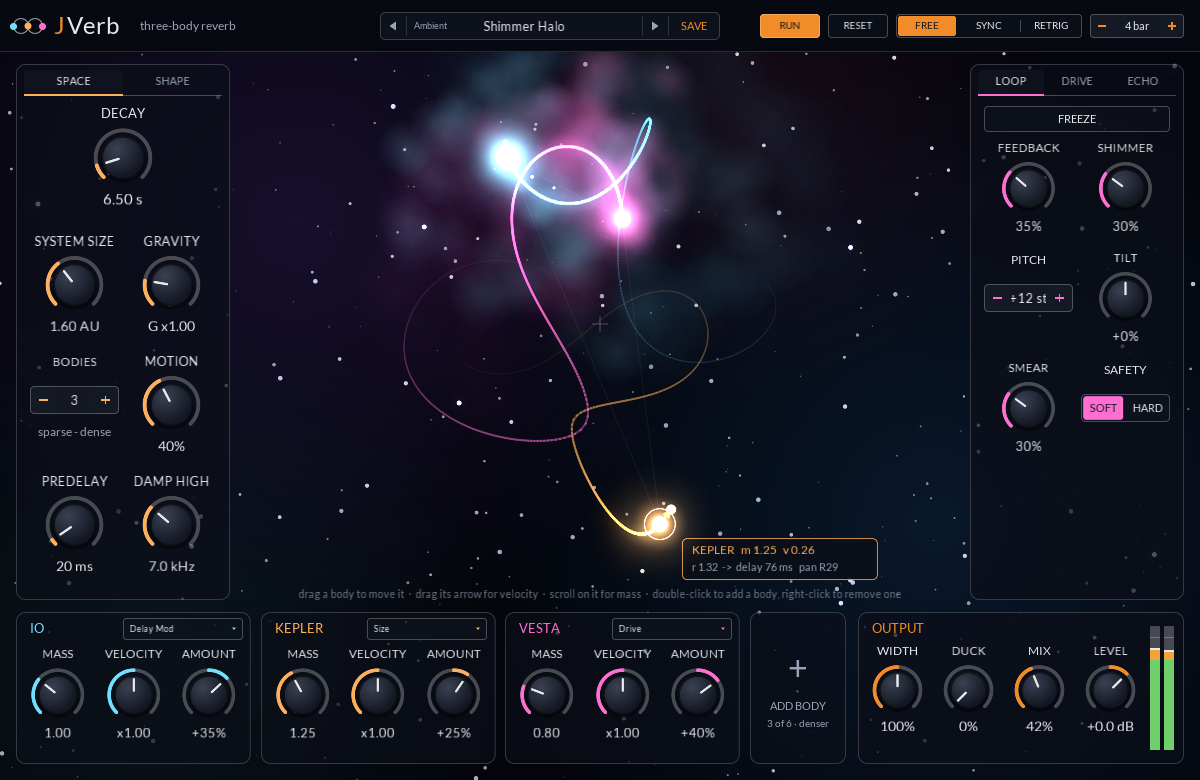
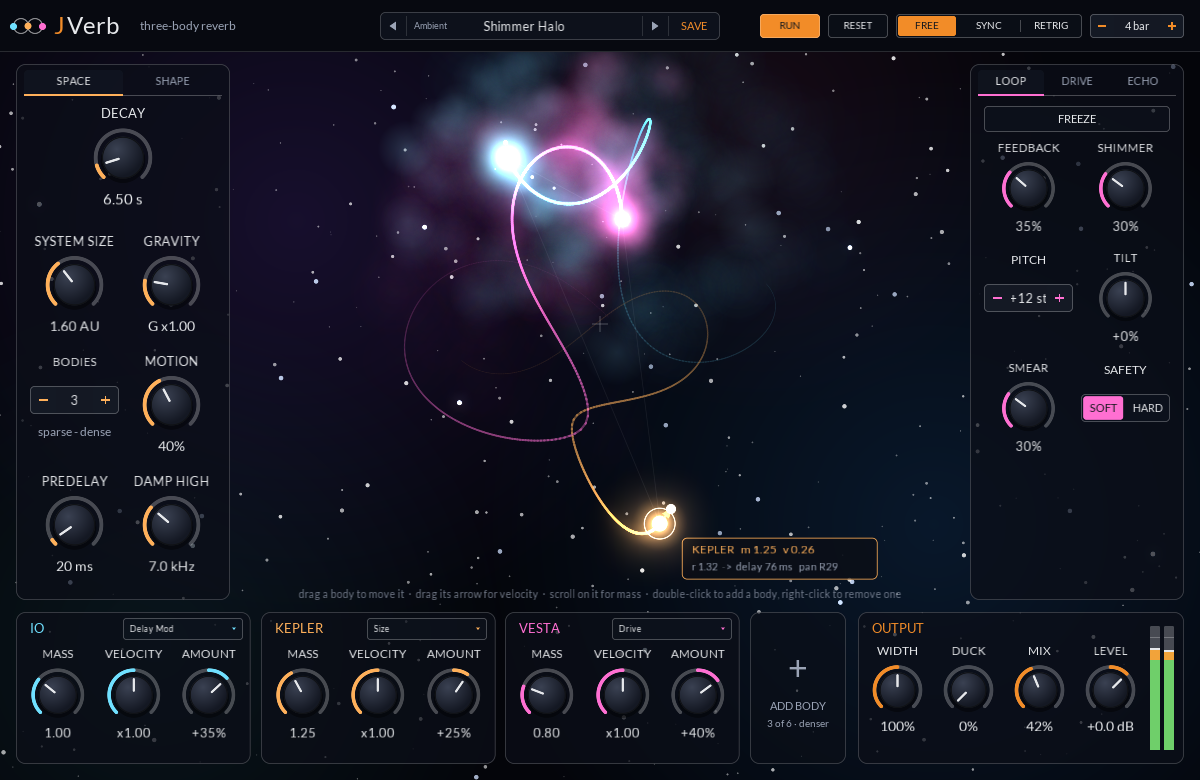
JVerb panel: slow the zoom-in to 2.5 times slower than before
Claude-Session: https://claude.ai/code/session_01G8usepLMvmy9exTfPe5V8f

Changed region(s): [[0.5242, 0.6769, 0.6783, 0.7385], [0.6783, 0.7385, 0.7092, 0.7692]]

diff --git a/plugins/jverb/src/editor.cpp b/plugins/jverb/src/editor.cpp
@@ -178,9 +178,9 @@ public:
       for (int b = 0; b < f.count; ++b)
          extent = std::max(extent, std::hypot(f.x[b], f.y[b]));
       const float target = kStageRadius / (extent * 1.12f);
-      // Zooming in eases 2.5 times slower than zooming out, so a body flung wide is caught quickly
-      // and the view settles back in gently.
-      constexpr float kZoomOutRate = 2.5f, kZoomInRate = kZoomOutRate / 2.5f;
+      // Zooming out is quick, so a body flung wide is caught; zooming in is slow (about ten times
+      // slower), so the view settles back in gently.
+      constexpr float kZoomOutRate = 2.5f, kZoomInRate = 0.24f;
       zoom_ = zoom_ <= 0.0f ? target
                             : zoom_ + (target - zoom_) * std::min(1.0f, dt * (target < zoom_ ? kZoomOutRate : kZoomInRate));
 
